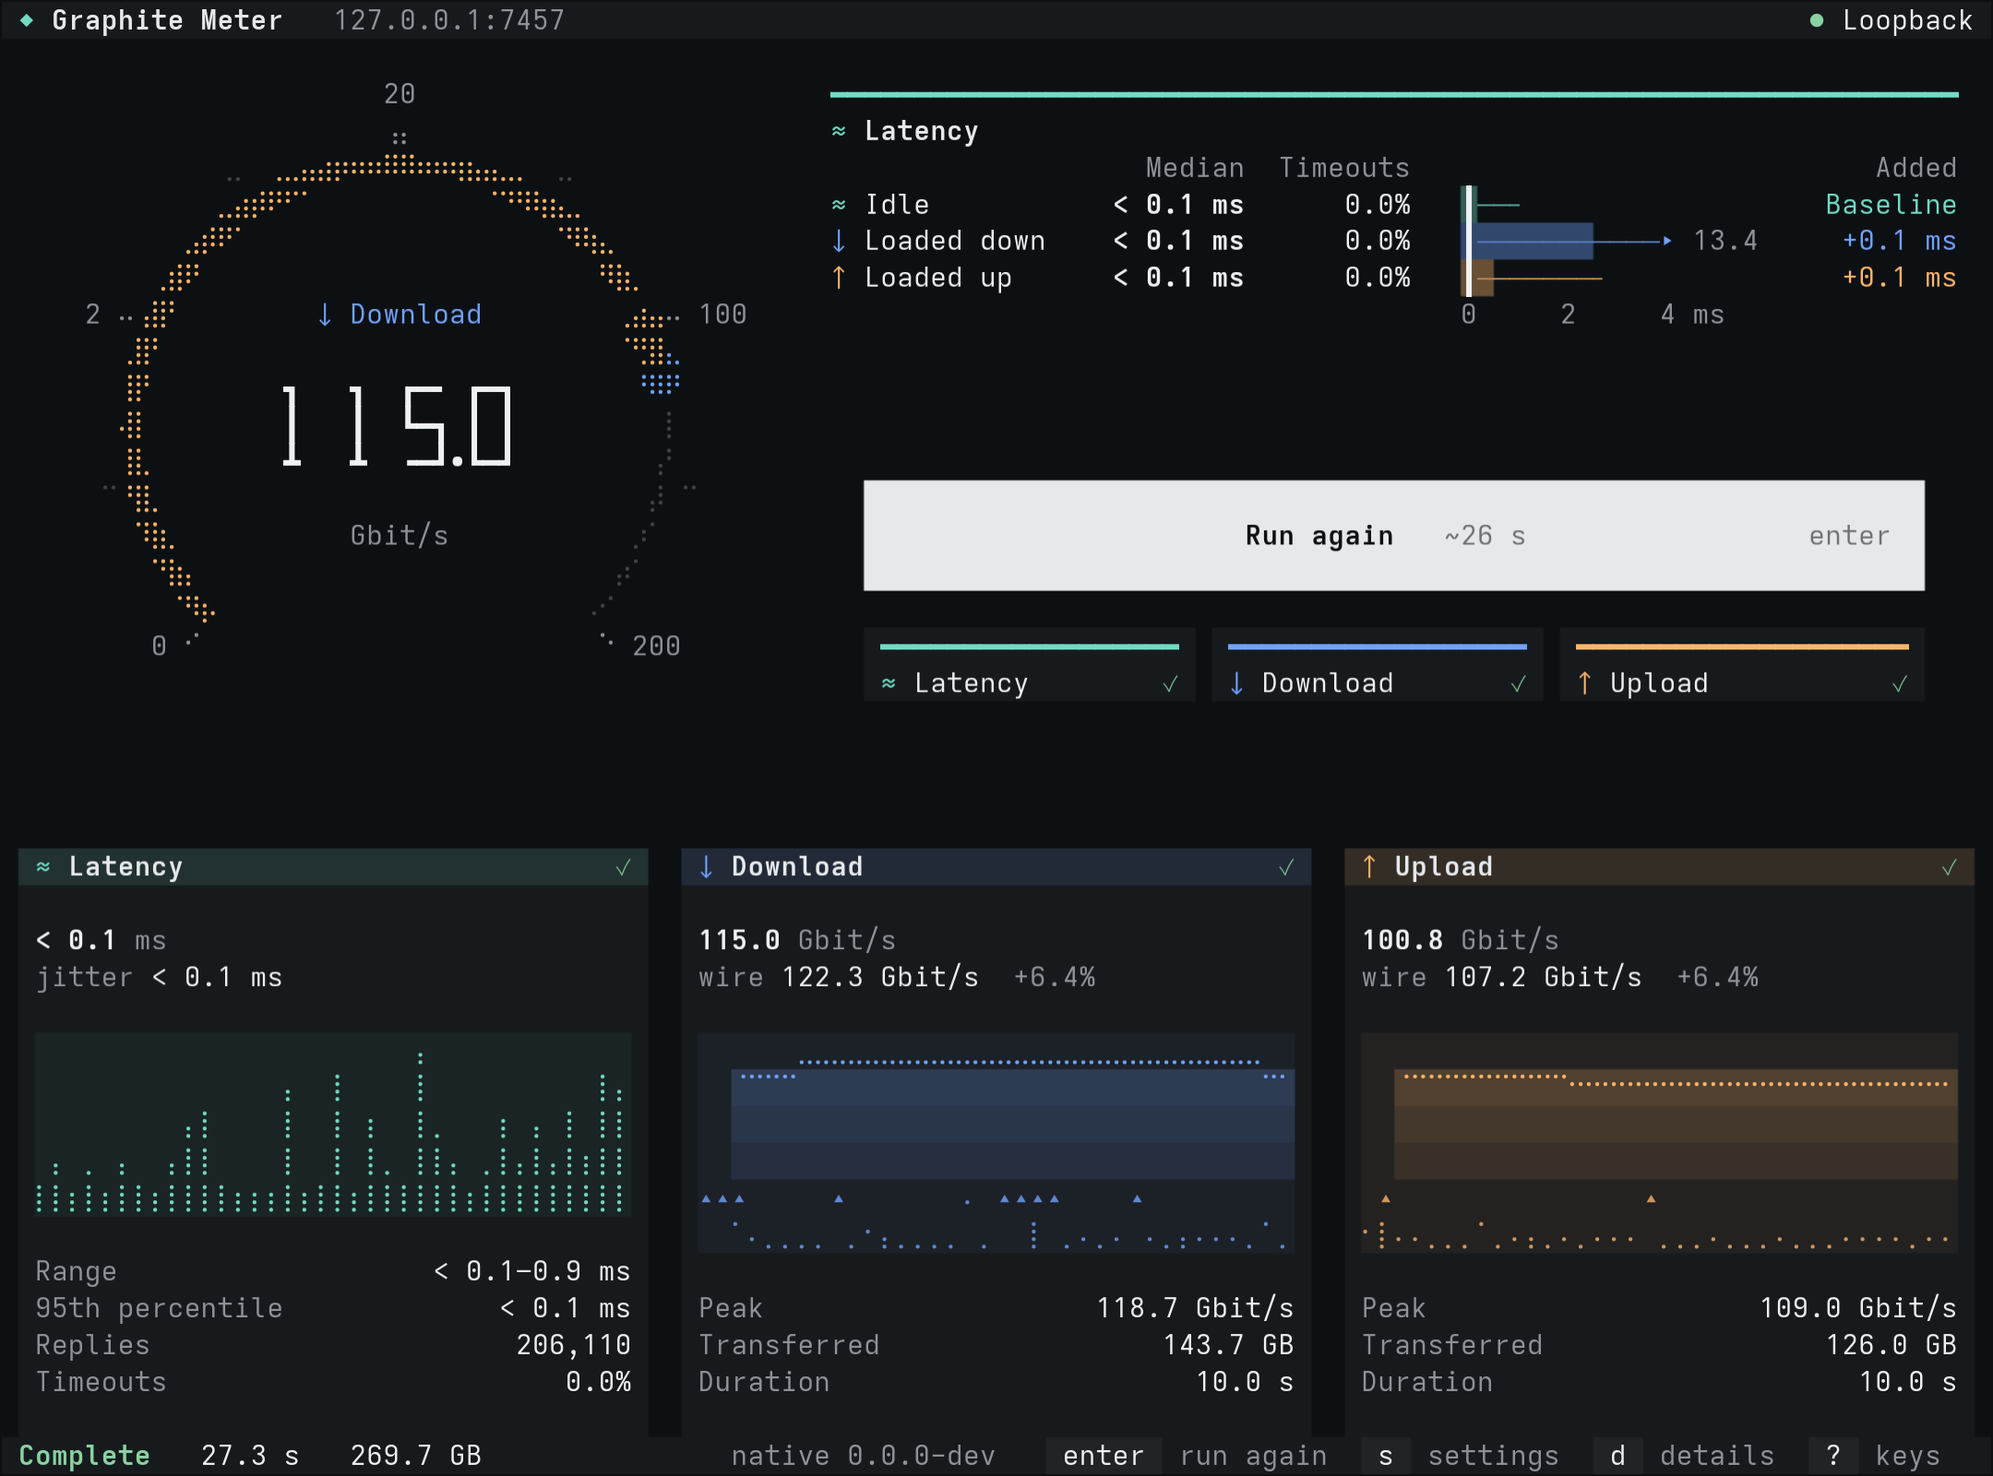
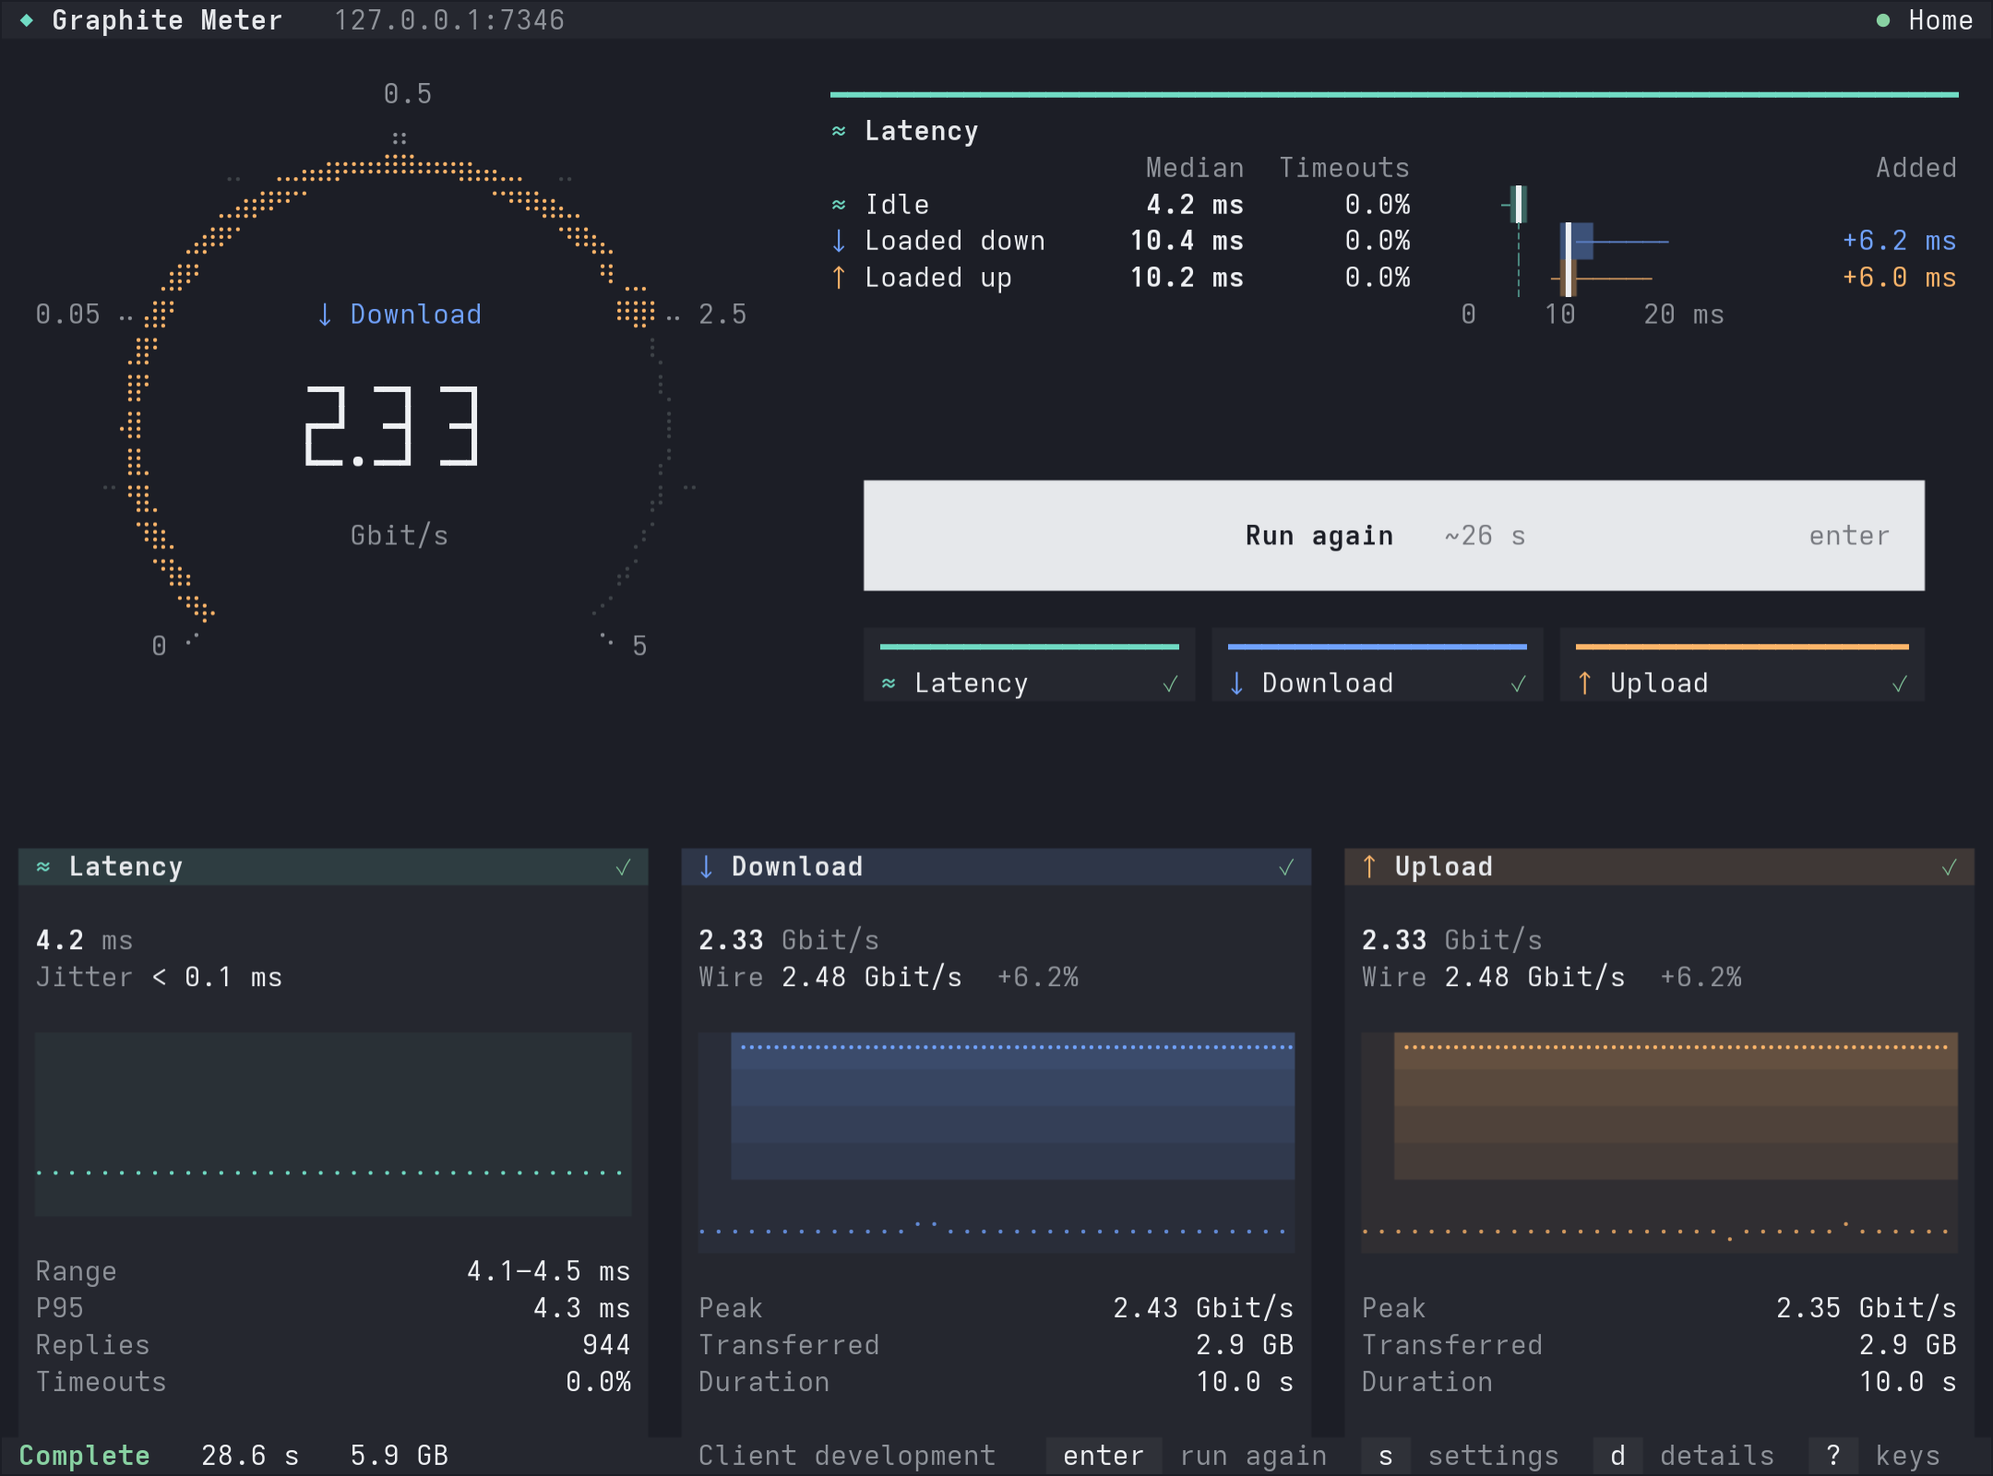
Document the terminal client
Recapture its screenshot from the Rust client.

diff --git a/docs/TERMINAL.md b/docs/TERMINAL.md
@@ -1,0 +1,150 @@
+# Terminal client
+
+`graphite-meter-client` runs the same measurement as the browser against the same server: one to four test servers,
+independently chosen throughput and latency paths, idle and loaded latency, and receiver-timed throughput. It has an
+interactive console and a report mode for scripts.
+
+[Project overview](../README.md) · [Deployment](DEPLOYMENT.md) · [Measurement definitions](MEASUREMENTS.md)
+
+<img src="assets/tui.png" alt="The terminal client after a complete latency, download and upload test" width="1080">
+
+## Install
+
+Each [release](https://github.com/zR-JB/graphite-meter/releases) attaches one archive per platform:
+
+| Platform       | Archive                                          |
+| -------------- | ------------------------------------------------ |
+| Linux, amd64   | `graphite-meter-client_X.Y.Z_linux_amd64.tar.gz` |
+| Linux, arm64   | `graphite-meter-client_X.Y.Z_linux_arm64.tar.gz` |
+| Windows, amd64 | `graphite-meter-client_X.Y.Z_windows_amd64.zip`  |
+
+The Linux builds are static. Each archive holds the executable (`graphite-meter-client`, or
+`graphite-meter-client.exe` on Windows) and its license notices, which `--legal` also prints. To build it from
+source, see the [development guide](DEVELOPMENT.md#commands).
+
+```sh
+tar -xzf graphite-meter-client_X.Y.Z_linux_amd64.tar.gz
+./graphite-meter-client_X.Y.Z_linux_amd64/graphite-meter-client --url http://192.168.1.20:7246
+```
+
+## The server address
+
+`--url` names the Graphite Meter server; its server catalog lists the test servers. Without `--url` the console
+asks for the address. A pasted page URL works too: only its origin is used.
+
+An address without a scheme gets `http://` when its host is on the local network and `https://` otherwise. Local
+means a loopback, private or link-local IP address, a name without a dot (`nas:7246`), or a name ending in
+`.localhost`, `.local`, `.lan`, `.home.arpa` or `.internal`. HTTPS never falls back to HTTP.
+
+With **Remember this server** on (Tab on the address card, or the row in the settings), the client keeps the address
+for the next start, which then needs no `--url`. Turning it off deletes the file. Nothing is kept otherwise.
+
+| System  | File                                                                       |
+| ------- | -------------------------------------------------------------------------- |
+| Linux   | `$XDG_CONFIG_HOME/graphite-meter/server`, else `~/.config/graphite-meter/server` |
+| Windows | `%APPDATA%\graphite-meter\server`                                          |
+
+## Sign-in
+
+A server with [authentication](DEPLOYMENT.md#authentication) asks the console to sign in. It shows a short code and
+the server's approval page; Enter (or o) opens the page in your browser. Sign in there as usual, check that the page
+shows the same code, and approve. The approval waits up to 2 minutes.
+
+The client never sees the operator password. It receives a measurement-only grant bound to that server's HTTPS
+origin and keeps it in memory until it exits; signing out on the server revokes it. Sign-in needs an `https://`
+address and TLS verification, so it is refused over HTTP and with `--insecure`. Report mode cannot sign in: against
+a protected server it ends with "Sign-in required" and status 1.
+
+## Flags
+
+Durations take units such as `800ms`, `4s` or `1m30s`. Boolean flags accept `true`, `false`, `1` or `0`
+(`--loaded-latency=false`).
+
+| Flag                                             | Default                   | Meaning                                                                                      |
+| ------------------------------------------------ | ------------------------- | -------------------------------------------------------------------------------------------- |
+| `--url <origin>`                                 | the remembered server     | The Graphite Meter server. Required in report mode unless a server is remembered.            |
+| `--server <id>`                                  | the catalog's default     | A test server ID from the server catalog; repeat for up to 4.                                |
+| `--stages <list>`                                | `latency,download,upload` | `latency` (`ping`), `download` (`down`), `upload` (`up`), `bidirectional` (`bidi`).          |
+| `--latency-duration`                             | `4s`                      | Measured time of the latency stage, 1 s to 24 h and within every test server's limit.       |
+| `--download-/--upload-/--bidirectional-duration` | `10s`                     | The same for each transfer stage.                                                            |
+| `--warmup`                                       | `800ms`                   | Before each stage, 0 to 4 s; stretched to at least 10 idle round trips, at most 4 s.        |
+| `--throughput-origin`, `--latency-origin`        | `auto`                    | An origin from discovery, or `auto`.                                                         |
+| `--throughput-protocol`                          | `auto`                    | `http1`, `http2` or `http3` for a negotiated throughput origin.                              |
+| `--throughput-transport`                         | `auto`                    | `fetch-stream` or `webtransport`.                                                            |
+| `--latency-transport`                            | `auto`                    | `websocket` or `webtransport`.                                                               |
+| `--ping`                                         | `reply-driven`            | Idle probe interval: `reply-driven`, `fast` (80 ms), `medium` (250 ms), `slow` (600 ms) or 80 ms to 15 s. |
+| `--loaded-ping`                                  | `medium`                  | Loaded probe interval, the same values.                                                      |
+| `--loaded-latency`                               | `true`                    | Probe latency during transfer stages.                                                        |
+| `--auto-streams`                                 | `6`                       | HTTP/1.1 stream limit per direction, 1 to 14.                                                |
+| `--streams`                                      | `0`                       | Exact stream count per server and direction, 1 to 14; `0` is automatic.                      |
+| `--insecure`                                     | `false`                   | Skip TLS certificate verification. Sign-in is refused.                                       |
+| `--report`                                       | `false`                   | Run once without the console; automatic when stdout is not a terminal.                      |
+| `--version`, `--legal`, `--help`                 |                           | Print the version, the license notices or the usage, and exit.                              |
+
+## Console
+
+The console shows the dial, the latency lanes, the run key over a chip per stage, and a card per stage. **s** opens
+the settings beside it (the server and its test servers, connection paths, stages, then advanced settings), and its
+foot explains the focused row. **d** opens Details (servers, paths, rates and failures), **?** lists every key.
+
+Every selected test server is probed for latency. The latency shown is the first selected server's, or a surviving
+one's once it leaves the test; **l** switches the server shown. A test server that fails its check leaves the test,
+which continues and ends Partial.
+
+| Keys                         | Where          | Action                                                                     |
+| ---------------------------- | -------------- | -------------------------------------------------------------------------- |
+| enter, space, r              | console        | Start a test, or run again.                                                |
+| esc                          | during a test  | Stop the test.                                                             |
+| 1–4                          | console        | Switch latency, download, upload or bidirectional on or off.               |
+| s, d, ?                      | console        | Settings, Details, Keys; esc or the same key closes them.                  |
+| l                            | console        | With several test servers, the server whose latency is shown.              |
+| v                            | console        | Check the server again.                                                    |
+| ↑ ↓ (k j, tab), ← →          | settings       | Move; change the focused value.                                            |
+| enter, space, r              | settings       | Edit or open the row; switch it on or off; start a test.                   |
+| ← →, home, end, enter, esc   | editing        | Move the cursor, apply, cancel.                                            |
+| tab                          | address card   | Remember this server, or forget it.                                        |
+| ↑ ↓, space, enter, esc       | test servers   | Move, select, apply, cancel.                                               |
+| enter (o), esc               | sign-in        | Open the sign-in page, cancel sign-in.                                     |
+| ↑ ↓, pgup, pgdn, home, end   | Details, Keys  | Scroll.                                                                    |
+| q                            | anywhere       | Quit; a running test stops first. While editing, q is typed.               |
+| ctrl+c                       | anywhere       | Stop the test and quit; a second ctrl+c quits at once.                     |
+
+The mouse works too: a click presses the run key, a stage's chip, a key in the bottom bar or a row, and the wheel
+scrolls a sheet or moves the focus in the settings. Hold Shift to select text. On exit after a test, the console
+prints the report to stdout.
+
+## Report mode
+
+With `--report`, or when stdout is not a terminal, the client runs one test without the console. It writes each
+stage's name to stderr as the stage starts and the report to stdout: at the terminal's width, or 100 columns when
+stdout is a file or pipe.
+
+| Status | Meaning                                                                            |
+| ------ | ---------------------------------------------------------------------------------- |
+| 0      | The test completed, or the console quit before any test.                           |
+| 1      | Partial, Incomplete, Stopped or Failed, or an error such as "Sign-in required".   |
+| 2      | Invalid flags or arguments, or no server address in report mode.                   |
+| 130    | SIGINT (ctrl+c) stopped the test.                                                  |
+| 143    | SIGTERM stopped the test.                                                          |
+| 141    | The report was written into a closed pipe.                                         |
+
+A signal stops the test and the report still prints; a second signal exits at once with its own status. A signal
+after the test finished does not change the status.
+
+## Environment
+
+| Variable                                       | Effect                                                                                                         |
+| ---------------------------------------------- | -------------------------------------------------------------------------------------------------------------- |
+| `HTTPS_PROXY`, `HTTP_PROXY`                    | Proxy for `https://` and `http://` servers: an `http://`, `https://`, `socks5://` or `socks5h://` URL, with optional credentials. Lowercase names work too; `ALL_PROXY` is not read. |
+| `NO_PROXY`                                     | Comma-separated names (`example.com` with its subdomains, `.example.com` the subdomains only), IP addresses, CIDRs and `host:port` entries; `*` bypasses every proxy. Loopback and `localhost` never use a proxy. |
+| `SSL_CERT_FILE`, `SSL_CERT_DIR`                | Trust only the certificates in this file or these directories instead of the system's.                        |
+| `NO_COLOR`                                     | No color; a terminal still gets bold text.                                                                     |
+| `CLICOLOR_FORCE`, `FORCE_COLOR`                | Color even when stdout is not a terminal or `TERM=dumb`.                                                       |
+| `COLORTERM`, `TERM`                            | Color depth: `COLORTERM=truecolor` or `24bit` (or a `TERM` ending in `direct`) gives 24-bit color, a `TERM` with `256color` 256 colors, otherwise 16. A Windows console without `TERM` gets 24-bit color. |
+
+A proxy variable the client cannot use fails each request it would carry, naming the variable. HTTP/3 and
+WebTransport connect directly over UDP, without the proxy.
+
+The console asks the terminal for its background color and picks a light or dark palette to match; on Windows it
+assumes a dark background. It sets the window title while it runs and restores the previous one on exit. Windows
+Terminal, ConEmu and Ghostty also show the test's progress in their tab or taskbar.

diff --git a/docs/SCREENSHOTS.md b/docs/SCREENSHOTS.md
@@ -68,23 +68,24 @@ reached at, and the password with a key to show it. While the server checks it, 
 <img src="assets/signin-checking.png" alt="The same sign-in page in the dark theme while the password is checked, its ring sweeping in the latency hue" width="320">
 </p>
 
-## Native terminal client
+## Terminal client
 
-The TUI runs the same measurement against the same servers on one console: the dial, the latency lanes, the run key
-over its stage chips, and a card per stage.
+The terminal client runs the same measurement against the same servers on one console: the dial, the latency lanes,
+the run key over its stage chips, and a card per stage.
 
-<img src="assets/tui.png" alt="Native terminal client after a complete latency, download and upload run" width="1080">
+<img src="assets/tui.png" alt="The terminal client after a complete latency, download and upload test" width="1080">
 
-Browser captures: production build of revision 10f36298, which the status bars name, over HTTPS, headless Chrome 154
-on a GitHub-hosted Ubuntu 24.04 runner, 1600 × 1000 (workspace 1920 × 1080) at 2× density, and 430 × 839 at 3× (the
-screen of a 430 × 932 phone between its status bar and home indicator); stages latency 4 s, download and upload 8 s,
-bidirectional 6 s, a 1 s warmup; the dial's maximum automatic.
-Paths: the laptop's carries 3.4 Gbit/s down and 1.9 Gbit/s up with 1 ms of one-way delay; the phone's 1.65 Gbit/s
-down and 0.86 Gbit/s up with 1.5 ms. Each queues up to 4 ms of data, so latency under load comes from real
-queueing. The three servers of the multi-server run each have their own path (1.3, 1.1 and 1.0 Gbit/s down with 1,
-1.5 and 2 ms), together about the laptop's, and the partial run stops the Mini PC's server during download. The
-terminal capture is a source build of the Go TUI from 0.11.0's development with its default stages at 120 × 40 in
-VTE at 2×, over TLS on loopback, which runs far faster than any of those paths. Each capture is shown as a plain screen;
-the README's hero sets the laptop's upload stage and the phone's result in a laptop and a phone outline. The sign-in
-pages come from a local server with password sign-in, at the phone's size.
+## How these were captured
+
+The browser captures come from a production build of revision 10f36298 in headless Chrome 154, at 1600 × 1000
+(workspace 1920 × 1080) with 2× density and 430 × 839 with 3× for the phone, with stages of 4 s latency, 8 s download
+and upload, 6 s bidirectional and a 1 s warmup. The laptop's path carries 3.4 Gbit/s down and 1.9 Gbit/s up with
+1 ms of one-way delay, the phone's 1.65 and 0.86 Gbit/s with 1.5 ms; each queues up to 4 ms of data, so latency
+under load comes from real queueing. The three servers of the multi-server test each have their own path, together
+about the laptop's, and the partial test stops one server during download. The sign-in pages come from a local
+server with password sign-in. The hero sets the laptop's upload stage and the phone's result in device outlines.
+
+The terminal capture is a development build of the client with its default stages, 120 × 40 cells in VTE at 2×,
+against a local server behind a shaping proxy of 2.35 Gbit/s each way with 1.2 ms of one-way delay.
+
 To measure your own network, follow [deployment and configuration](DEPLOYMENT.md).
